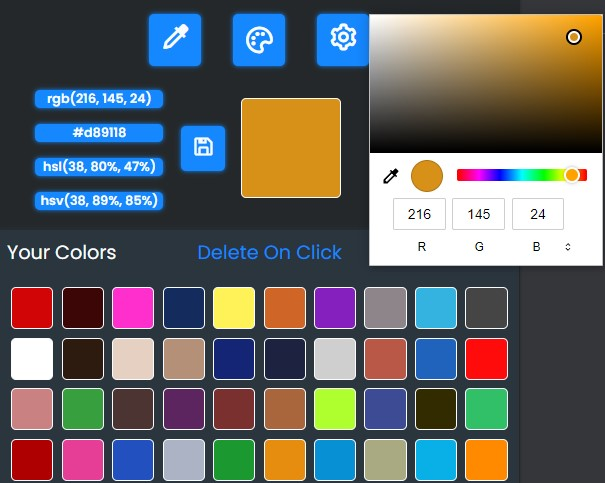
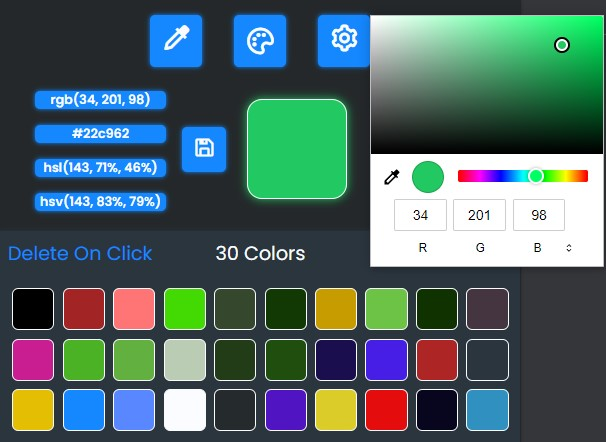
QoL improvements

diff --git a/script.js b/script.js
@@ -10,6 +10,7 @@ const settingsTools = document.querySelector(".settings-tools");
 const colorsButton = document.querySelector("#colors-button");
 const lightDarkButton = document.querySelector("#light-dark-mode");
 const allColors = document.querySelector(".all-colors");
+const savedColorsCount = document.querySelector(".saved-colors-count");
 const deleteOnClick = document.querySelector(".delete-onclick");
 const deleteAll = document.querySelector(".delete-all");
 const lightModeIcon = document.querySelector("#light-mode-icon");
@@ -37,14 +38,15 @@ var currentSelectedColor = localStorage.getItem("currSelectedColor");
 var messageTimeout, deleteColorOnClick;
 
 // Initialization
+displaySavedColorsCount(savedColorsArray.length);
 disableDeleteOnClick();
 setOptions();
 setLightDarkMode(localStorage.getItem("lightDarkMode"));
 showSettingsHideColors();
 if (currentSelectedColor == null)
-    applyCurrSelectedColor("#000000");
+    applyCurrentSelectedColor("#000000");
 else
-    applyCurrSelectedColor(currentSelectedColor);
+    applyCurrentSelectedColor(currentSelectedColor);
 showColors();
 
 function setOptions() {
@@ -125,26 +127,26 @@ function setOptions() {
 function toggleLightDarkMode() {
     if (localStorage.getItem("lightDarkMode") == "light") {
         localStorage.setItem("lightDarkMode", "dark");
-        root.style.setProperty('--first-color', '#24282a');
-        root.style.setProperty('--second-color', '#2b353e');
-        root.style.setProperty('--text-color', '#fafcff');
+        root.style.setProperty("--first-color", "#24282a");
+        root.style.setProperty("--second-color", "#2b353e");
+        root.style.setProperty("--text-color", "#fafcff");
 
     } else if (localStorage.getItem("lightDarkMode") == "dark") {
         localStorage.setItem("lightDarkMode", "light");
-        root.style.setProperty('--first-color', '#fafcff');
-        root.style.setProperty('--second-color', '#e7e7f4');
-        root.style.setProperty('--text-color', '#24282a');
+        root.style.setProperty("--first-color", "#fafcff");
+        root.style.setProperty("--second-color", "#e7e7f4");
+        root.style.setProperty("--text-color", "#24282a");
     }
 
-    lightModeIcon.classList.toggle('bxs-sun');
+    lightModeIcon.classList.toggle("bxs-sun");
 }
 
 function setLightDarkMode(mode) {
     if (mode == "dark") {
-        lightModeIcon.classList.toggle('bxs-sun');
-        root.style.setProperty('--first-color', '#24282a');
-        root.style.setProperty('--second-color', '#2b353e');
-        root.style.setProperty('--text-color', '#fafcff');
+        lightModeIcon.classList.toggle("bxs-sun");
+        root.style.setProperty("--first-color", "#24282a");
+        root.style.setProperty("--second-color", "#2b353e");
+        root.style.setProperty("--text-color", "#fafcff");
     }
 }
 
@@ -198,7 +200,7 @@ function showColorsHideSettings() {
     settingsPanel.classList.add("hide");
 }
 
-function applyCurrSelectedColor(color) {
+function applyCurrentSelectedColor(color) {
     if (color == null || color == "")
         return;
 
@@ -208,6 +210,7 @@ function applyCurrSelectedColor(color) {
     colorPalette.value = currentSelectedColor;
     selectedColor.style.background = color;
     selectedColorHex.textContent = color;
+    root.style.setProperty("--selected-color", currentSelectedColor);
     let rgbColor = hexToRgb(color);
     selectedColorRGB.textContent = rgbString(rgbColor);
     selectedColorHSL.textContent = hslString(rgbToHsl(rgbColor));
@@ -257,7 +260,7 @@ function displayColorString(color, colorFormat) {
 
 function savedColorClicked(colorClicked) {
     if (deleteColorOnClick) {
-        applyCurrSelectedColor(colorClicked.dataset.color);
+        applyCurrentSelectedColor(colorClicked.dataset.color);
         deleteOnClickColor(colorClicked.dataset.color);
         if (savedColorsArray.length <= 0)
             disableDeleteOnClick();
@@ -265,7 +268,7 @@ function savedColorClicked(colorClicked) {
     }
 
     copyColorCode(colorClicked.dataset.color);
-    applyCurrSelectedColor(colorClicked.dataset.color);
+    applyCurrentSelectedColor(colorClicked.dataset.color);
 
     if (localStorage.getItem("autoCopyColorCode") == "true")
         displayMessageAndColor("Copied", currentSelectedColor, localStorage.getItem("colorCodeFormat"));
@@ -289,6 +292,7 @@ function saveColor(color) {
             displayMessageAndColor("Saved", color, localStorage.getItem("colorCodeFormat"));
         copyColorCode(color);
         showHideSaveColorButton();
+        displaySavedColorsCount(savedColorsArray.length);
     }
 }
 
@@ -354,7 +358,7 @@ function activateEyeDropper() {
         try {
             const eyeDropper = new EyeDropper();
             const { sRGBHex } = await eyeDropper.open();
-            applyCurrSelectedColor(sRGBHex);
+            applyCurrentSelectedColor(sRGBHex);
 
             if (localStorage.getItem("autoSaveEyeDropper") == "true") {
                 saveColor(sRGBHex);
@@ -376,6 +380,7 @@ function deleteOnClickColor(color) {
 
     savedColorsArray.splice(colorIndex, 1);
     localStorage.setItem("savedColorsArray", JSON.stringify(savedColorsArray));
+    displaySavedColorsCount(savedColorsArray.length);
     showColors();
     displayMessageAndColor("Deleted", color, localStorage.getItem("colorCodeFormat"));
 
@@ -384,7 +389,7 @@ function deleteOnClickColor(color) {
 
     if (savedColorsArray.length <= 0) {
         showSettingsHideColors();
-        applyCurrSelectedColor("#000000");
+        applyCurrentSelectedColor("#000000");
         toggleDeleteOnClick();
     }
 }
@@ -393,7 +398,8 @@ function deleteAllColors() {
     if (confirm("Delete All Your Colors?")) {
         savedColorsArray.length = 0;
         localStorage.setItem("savedColorsArray", JSON.stringify(savedColorsArray));
-        applyCurrSelectedColor("#000000");
+        displaySavedColorsCount(0);
+        applyCurrentSelectedColor("#000000");
         disableDeleteOnClick();
         showSettingsHideColors();
     }
@@ -412,6 +418,14 @@ function toggleDeleteOnClick() {
 function disableDeleteOnClick() {
     deleteColorOnClick = false;
     deleteOnClick.textContent = "Delete On Click";
+}
+
+function displaySavedColorsCount(count) {
+    if (count != null)
+        if (count == 1)
+            savedColorsCount.textContent = `${count} Color`;
+        else
+            savedColorsCount.textContent = `${count} Colors`;
 }
 
 function hexToRgb(hex) {
@@ -518,12 +532,12 @@ selectedColor.addEventListener("click", function () { colorPalette.click(); });
 deleteOnClick.addEventListener("click", toggleDeleteOnClick);
 deleteAll.addEventListener("click", deleteAllColors);
 
-colorPalette.addEventListener('input', function () {
-    applyCurrSelectedColor(colorPalette.value);
+colorPalette.addEventListener("input", function () {
+    applyCurrentSelectedColor(colorPalette.value);
     displayMessageAndColor("Selected", colorPalette.value, localStorage.getItem("colorCodeFormat"));
 });
 
-autoSaveEyeDropper.addEventListener('change', function () {
+autoSaveEyeDropper.addEventListener("change", function () {
     if (this.checked) {
         localStorage.setItem("autoSaveEyeDropper", "true");
     } else {
@@ -531,7 +545,7 @@ autoSaveEyeDropper.addEventListener('change', function () {
     }
 });
 
-autoCopyColorCode.addEventListener('change', function () {
+autoCopyColorCode.addEventListener("change", function () {
     if (this.checked) {
         localStorage.setItem("autoCopyColorCode", "true");
     } else {
@@ -539,7 +553,7 @@ autoCopyColorCode.addEventListener('change', function () {
     }
 });
 
-colorCodeFormat.addEventListener('change', function () {
+colorCodeFormat.addEventListener("change", function () {
     if (colorCodeFormat.value == "RGB") {
         localStorage.setItem("colorCodeFormat", "RGB");
     } else if (colorCodeFormat.value == "HEX") {
@@ -551,7 +565,7 @@ colorCodeFormat.addEventListener('change', function () {
     }
 });
 
-colorsPerLine.addEventListener('change', function () {
+colorsPerLine.addEventListener("change", function () {
     if (colorsPerLine.value == "6") {
         localStorage.setItem("colorsPerLine", "6");
         setColorsPerLine(6);
@@ -567,7 +581,7 @@ colorsPerLine.addEventListener('change', function () {
     }
 });
 
-displayMessagesOption.addEventListener('change', function () {
+displayMessagesOption.addEventListener("change", function () {
     if (this.checked) {
         localStorage.setItem("displayMessagesOption", "true");
     } else {

diff --git a/style.css b/style.css
@@ -8,11 +8,20 @@
     font-family: "Poppins", sans-serif;
 }
 
+*::selection {
+    background: none;
+}
+
+*::-moz-selection {
+    background: none;
+}
+
 :root {
     --first-color: #fafcff;
     --second-color: #ededf7;
     --highlight-color: #1587ff;
     --text-color: #24282a;
+    --selected-color: #000000;
 
     --rect-height: 42.1px;
     --rect-width: 42.1px;
@@ -255,7 +264,8 @@
     cursor: pointer;
     border-radius: 5px;
     padding: 5px 10px;
-    margin-left: 20px;
+    margin-left: 25px;
+    margin-right: 5px;
     background: var(--highlight-color);
     box-shadow: 0 0 0.3rem var(--highlight-color);
     transition: 0.5s ease;
@@ -279,13 +289,16 @@
 .selected-color .rect {
     height: 100px;
     width: 100px;
-    border-radius: 5px;
+    border-radius: 15%;
     border: 1px solid var(--text-color);
+    box-shadow: 0 0 10px var(--selected-color);
     transition: 0.3s ease;
 }
 
 .selected-color .rect:hover {
-    transform: scale(1.2);
+    transform: scale(1.25);
+    border-radius: 5%;
+    box-shadow: none;
 }
 
 .saved-colors {
@@ -299,25 +312,28 @@
 }
 
 .saved-colors header {
-    display: flex;
-    justify-content: space-between;
+    display: grid;
+    grid-template-columns: repeat(3, 1fr);
     margin: 0.5rem;
-}
-
-.saved-colors header .title {
-    font-size: 1.2rem;
-    color: var(--text-color);
 }
 
 .saved-colors .delete-onclick {
     cursor: pointer;
     font-size: 1.2rem;
+    justify-self: left;
     color: var(--highlight-color);
+}
+
+.saved-colors header .saved-colors-count {
+    font-size: 1.2rem;
+    justify-self: center;
+    color: var(--text-color);
 }
 
 .saved-colors .delete-all {
     cursor: pointer;
     font-size: 1.2rem;
+    justify-self: right;
     color: var(--highlight-color);
 }
 
@@ -338,11 +354,13 @@
     height: var(--rect-height);
     width: var(--rect-width);
     margin: var(--rect-margin);
-    border-radius: 5px;
+    border-radius: 15%;
     border: 1px solid var(--text-color);
     transition: 0.3s ease;
 }
 
 .all-colors .color .rect:hover {
-    transform: scale(1.3);
+    transform: scale(1.25);
+    border-radius: 5%;
+    border: 1px solid var(--highlight-color);
 }

diff --git a/popup.html b/popup.html
@@ -99,8 +99,8 @@
 
         <div class="saved-colors" hide>
             <header>
-                <p class="title">Your Colors</p>
                 <span class="delete-onclick">Delete On Click</span>
+                <span class="saved-colors-count"></span>
                 <span class="delete-all">Delete All</span>
             </header>
             <ul class="all-colors"></ul>

diff --git a/README.md b/README.md
@@ -6,12 +6,11 @@
 </p>
 
 ----
-> A color tool to extract every pixel from the screen, pick any color from a palette and save your favorite colors.
+> A color tool to extract any pixel from the screen, pick any color from a palette and save favorite colors.
 </br>
 Download the chrome extension  <a href="https://chrome.google.com/webstore/detail/colorpal-color-picker-too/mbnpegpimodgjmlbfhkkdgbcfjmgpoad">Here</a>
 
 ----
-
 ### Features:<br>
 - Color eye dropper
 - Color palette
@@ -19,9 +18,9 @@ Download the chrome extension  <a href="https://chrome.google.com/webstore/detai
 - Auto copy color code
 - Multiple color formats: RGB, HEX, HSL, HSV
 - Delete selected color or all colors
+- Light and Dark mode
 
 ----
-
 ### Preview
 <img width="500" alt="" src=https://raw.githubusercontent.com/nikosdaridis/colorpal/main/images/Screenshot1.jpg>
 <img width="500" alt="" src=https://raw.githubusercontent.com/nikosdaridis/colorpal/main/images/Screenshot2.jpg>
